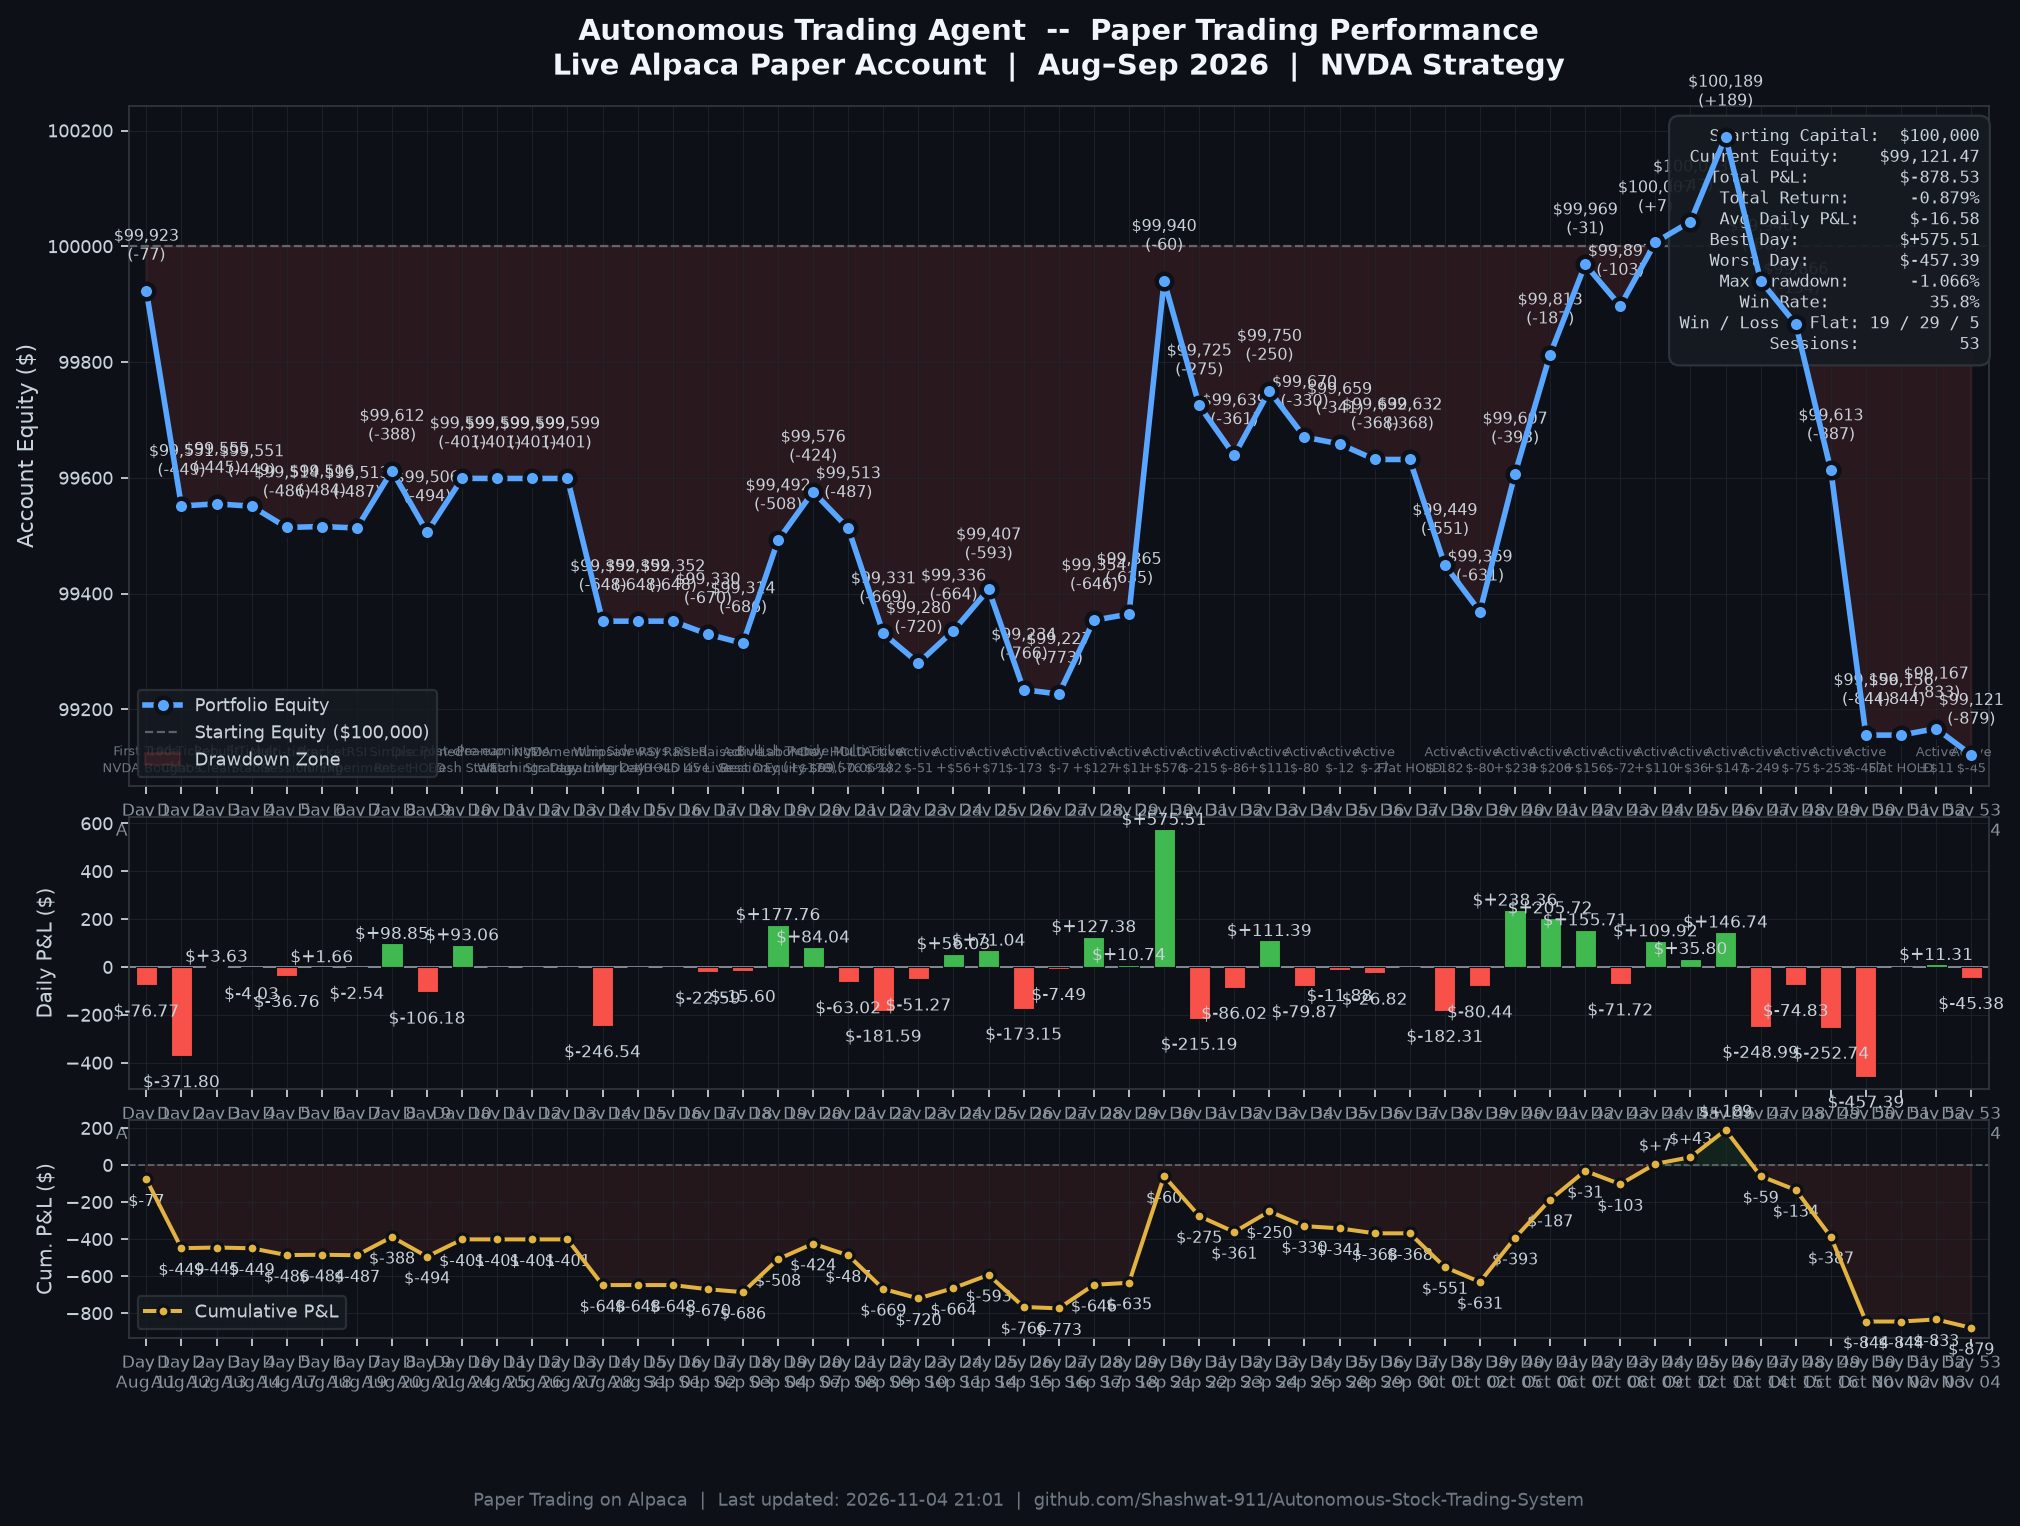
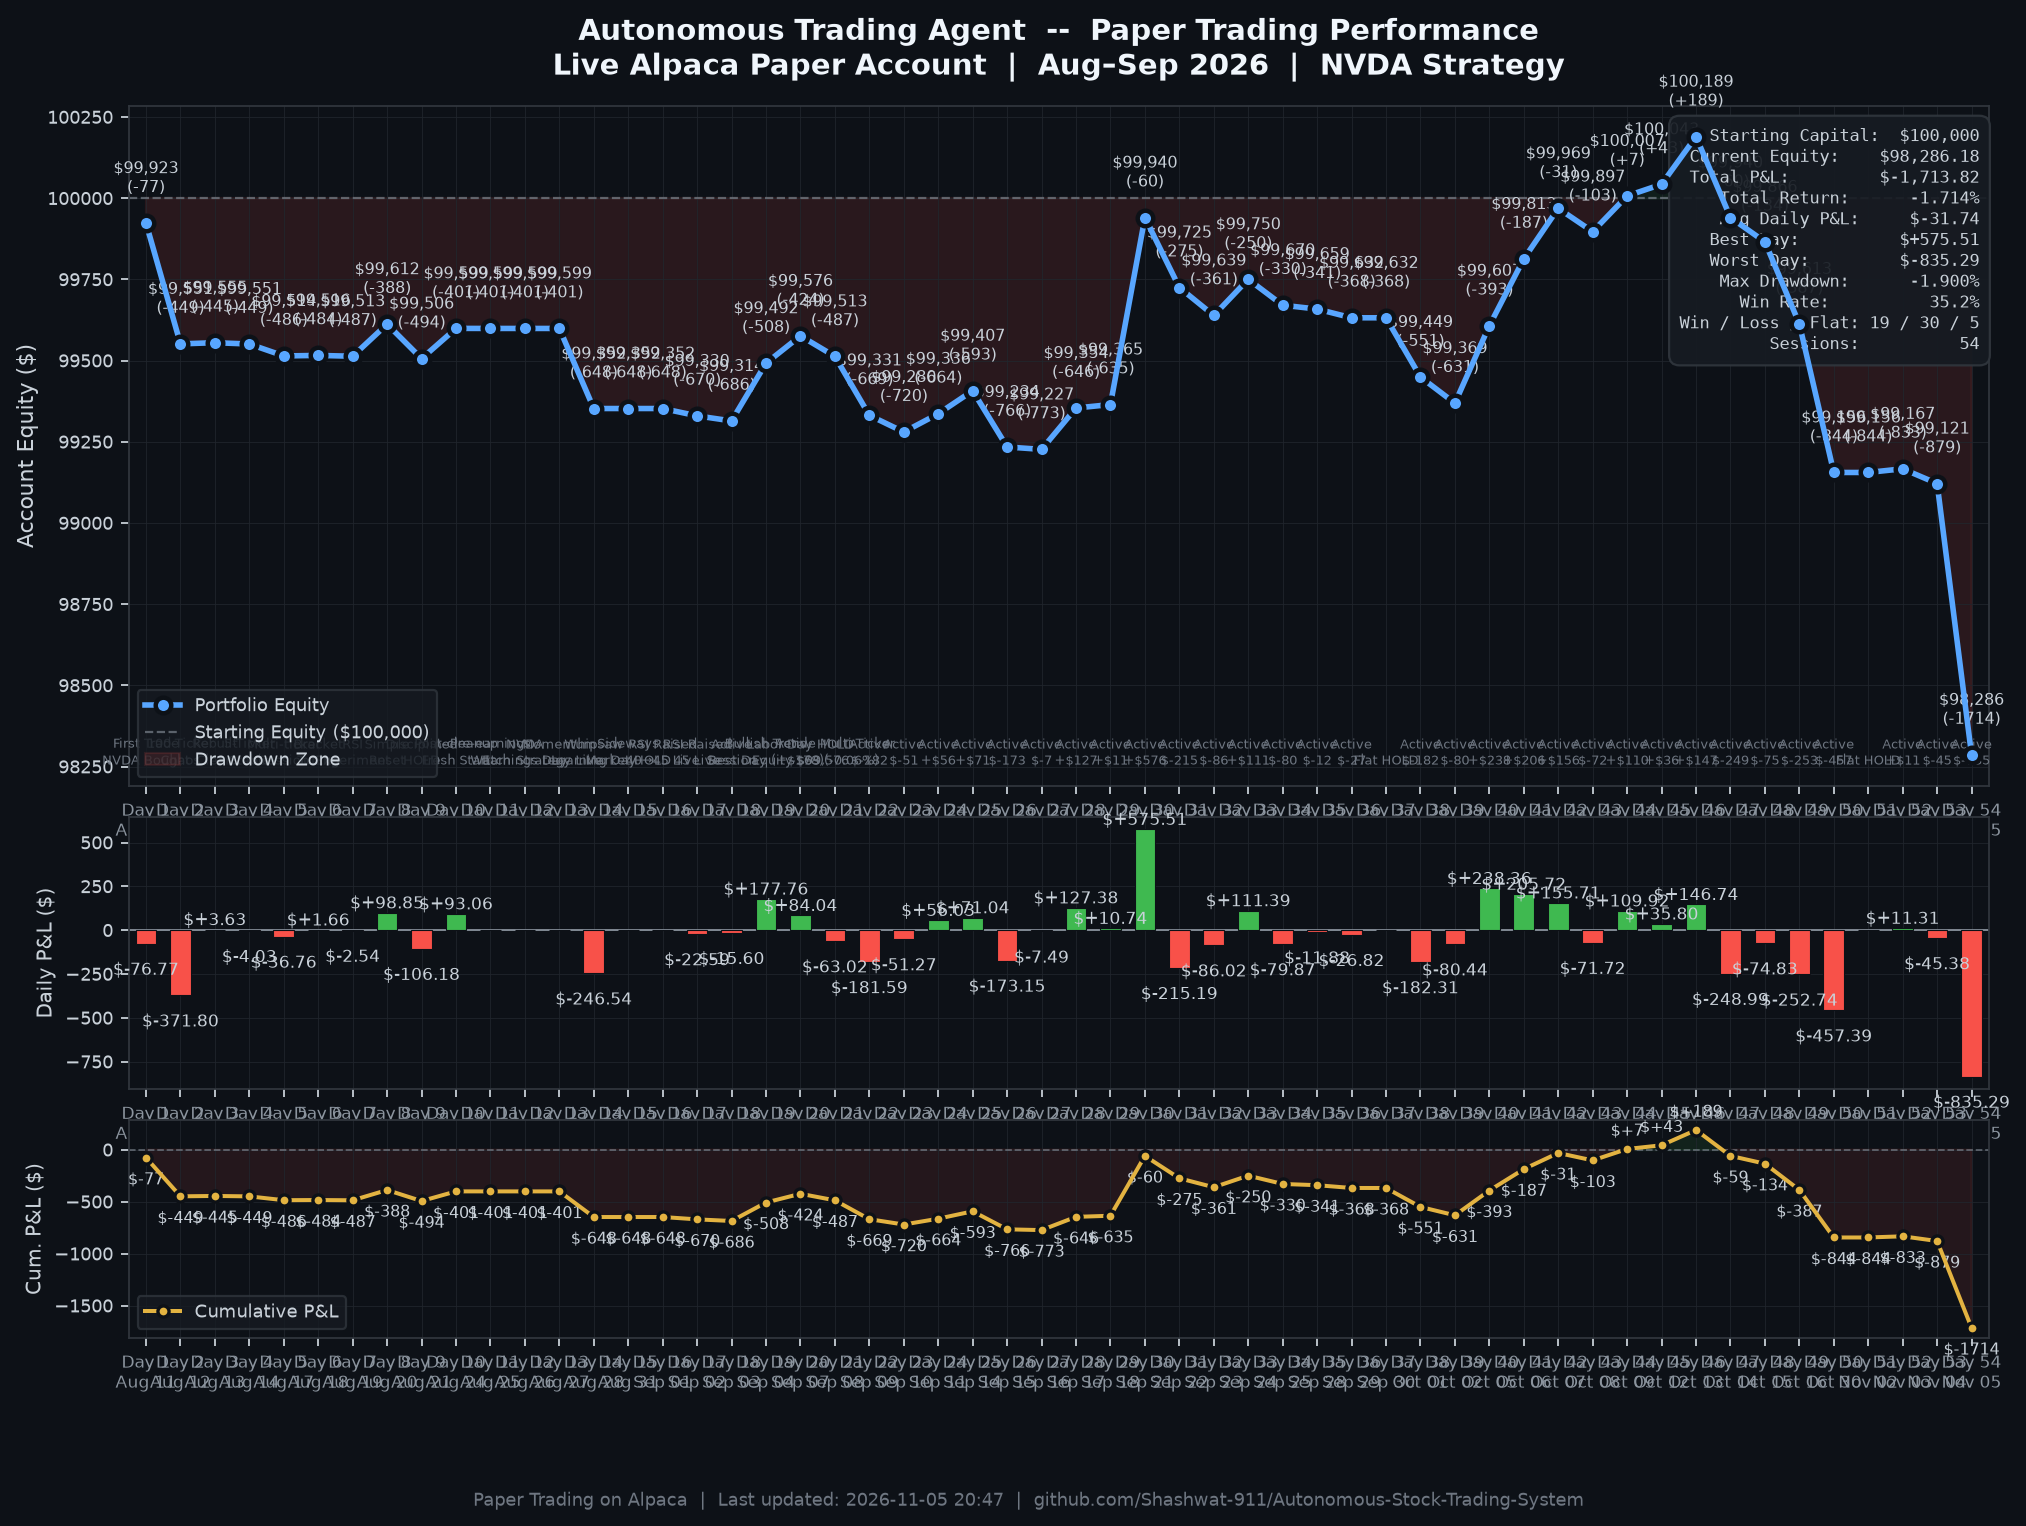
auto(session): 2026-11-05 | equity=$98,286 | return=-1.714%

diff --git a/README.md b/README.md
@@ -47,7 +47,7 @@ The automated trading bot is deployed in the cloud on Render with continuous mon
 
 > **Paper Trading on Alpaca** | Started: Aug 11, 2026 | Initial Capital: $100,000.00 | Universe: NVDA, TSLA, META, MSFT, AAPL (5-Stock High-Momentum Universe)
 
-![Daily P&L Chart](outputs/daily_pnl_chart.png?v=20261104)
+![Daily P&L Chart](outputs/daily_pnl_chart.png?v=20261105)
 
 *Chart auto-generated from live Alpaca Portfolio History API and verified session telemetry via [`scripts/generate_pnl_chart.py`](scripts/generate_pnl_chart.py).*
 
@@ -108,8 +108,9 @@ The automated trading bot is deployed in the cloud on Render with continuous mon
 | **Day 51** | Nov 02 (Mon) | $99,155.54 | $0.00 | -$844.46 | -0.844% | Flat Session - Disciplined HOLD |
 | **Day 52** | Nov 03 (Tue) | $99,166.85 | +$11.31 | -$833.15 | -0.833% | Active Session (+$11.31) |
 | **Day 53** | Nov 04 (Wed) | $99,121.47 | -$45.38 | -$878.53 | -0.879% | Active Session (-$45.38) |
+| **Day 54** | Nov 05 (Thu) | $98,286.18 | -$835.29 | -$1713.82 | -1.714% | Loss Session (-$835.29) |
 
-> **Current Equity**: $99,121.47 | **Total P&L**: $-878.53 | **Best Day**: $+575.51 | **Win Rate**: 35.8% (19W / 29L / 5 Flat) | **Max Drawdown**: -0.879% | **Sessions**: 53
+> **Current Equity**: $98,286.18 | **Total P&L**: $-1,713.82 | **Best Day**: $+575.51 | **Win Rate**: 35.2% (19W / 30L / 5 Flat) | **Max Drawdown**: -1.714% | **Sessions**: 54
 ---
 
 ## System Architecture
